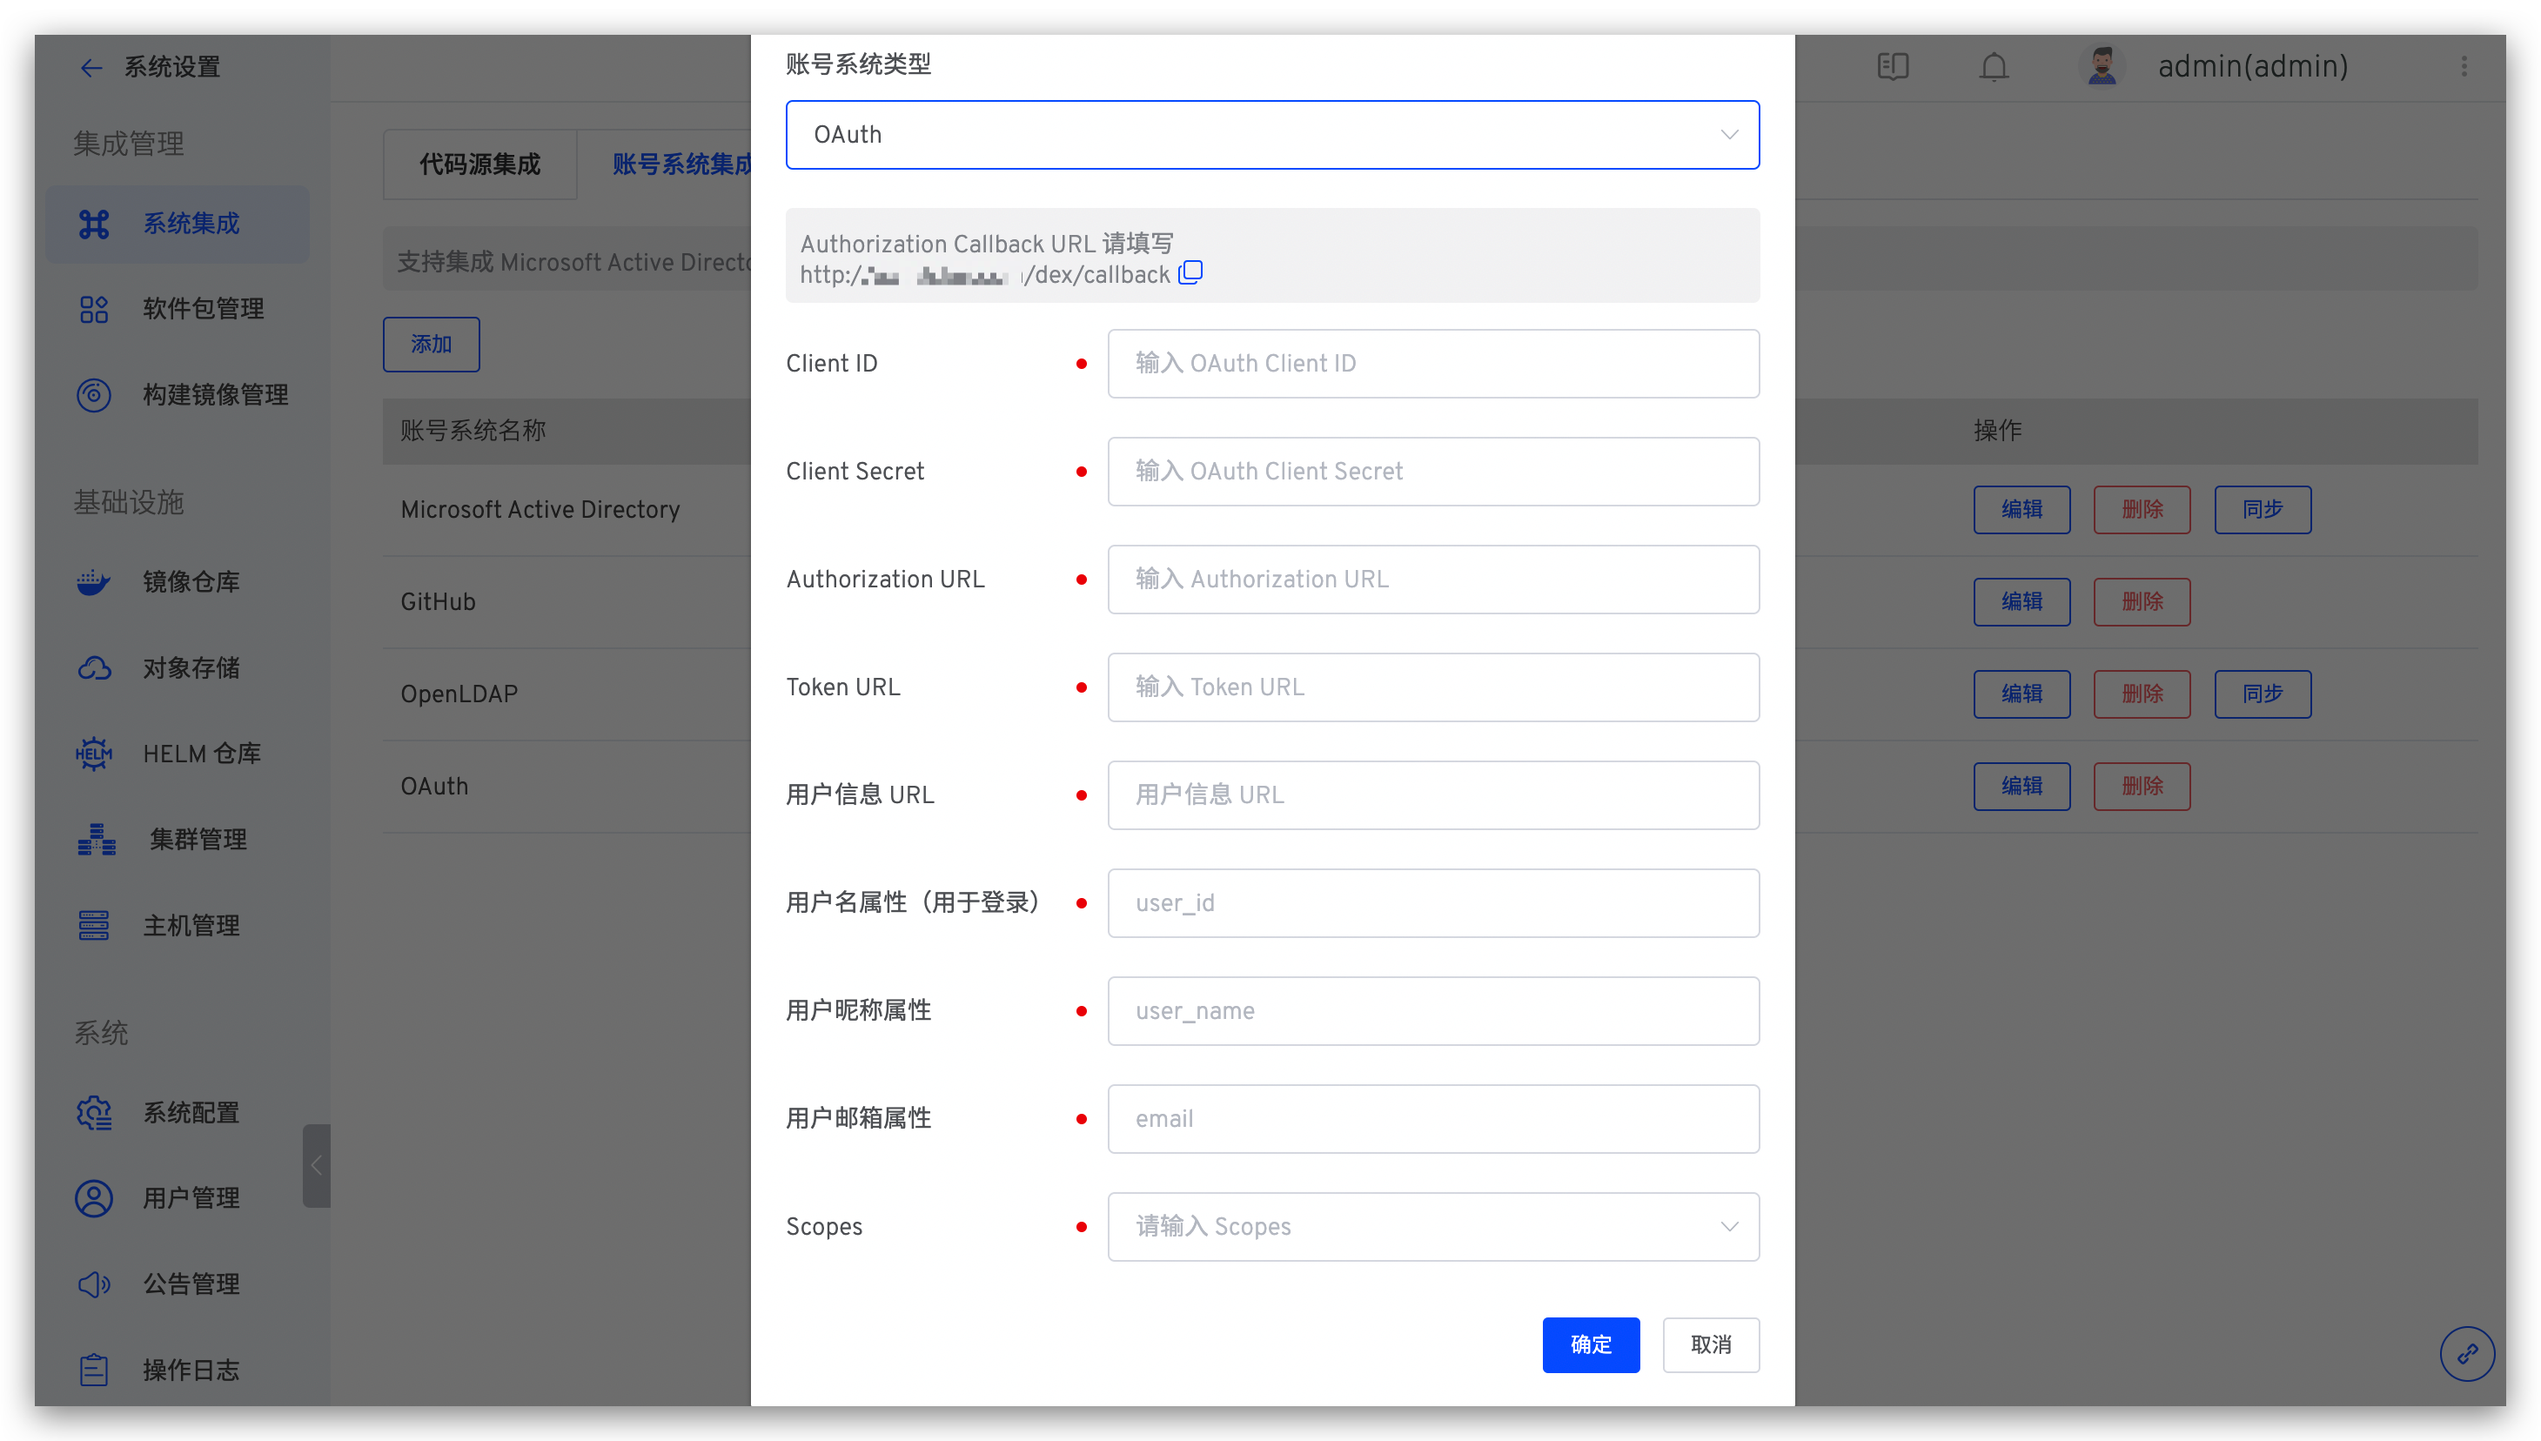
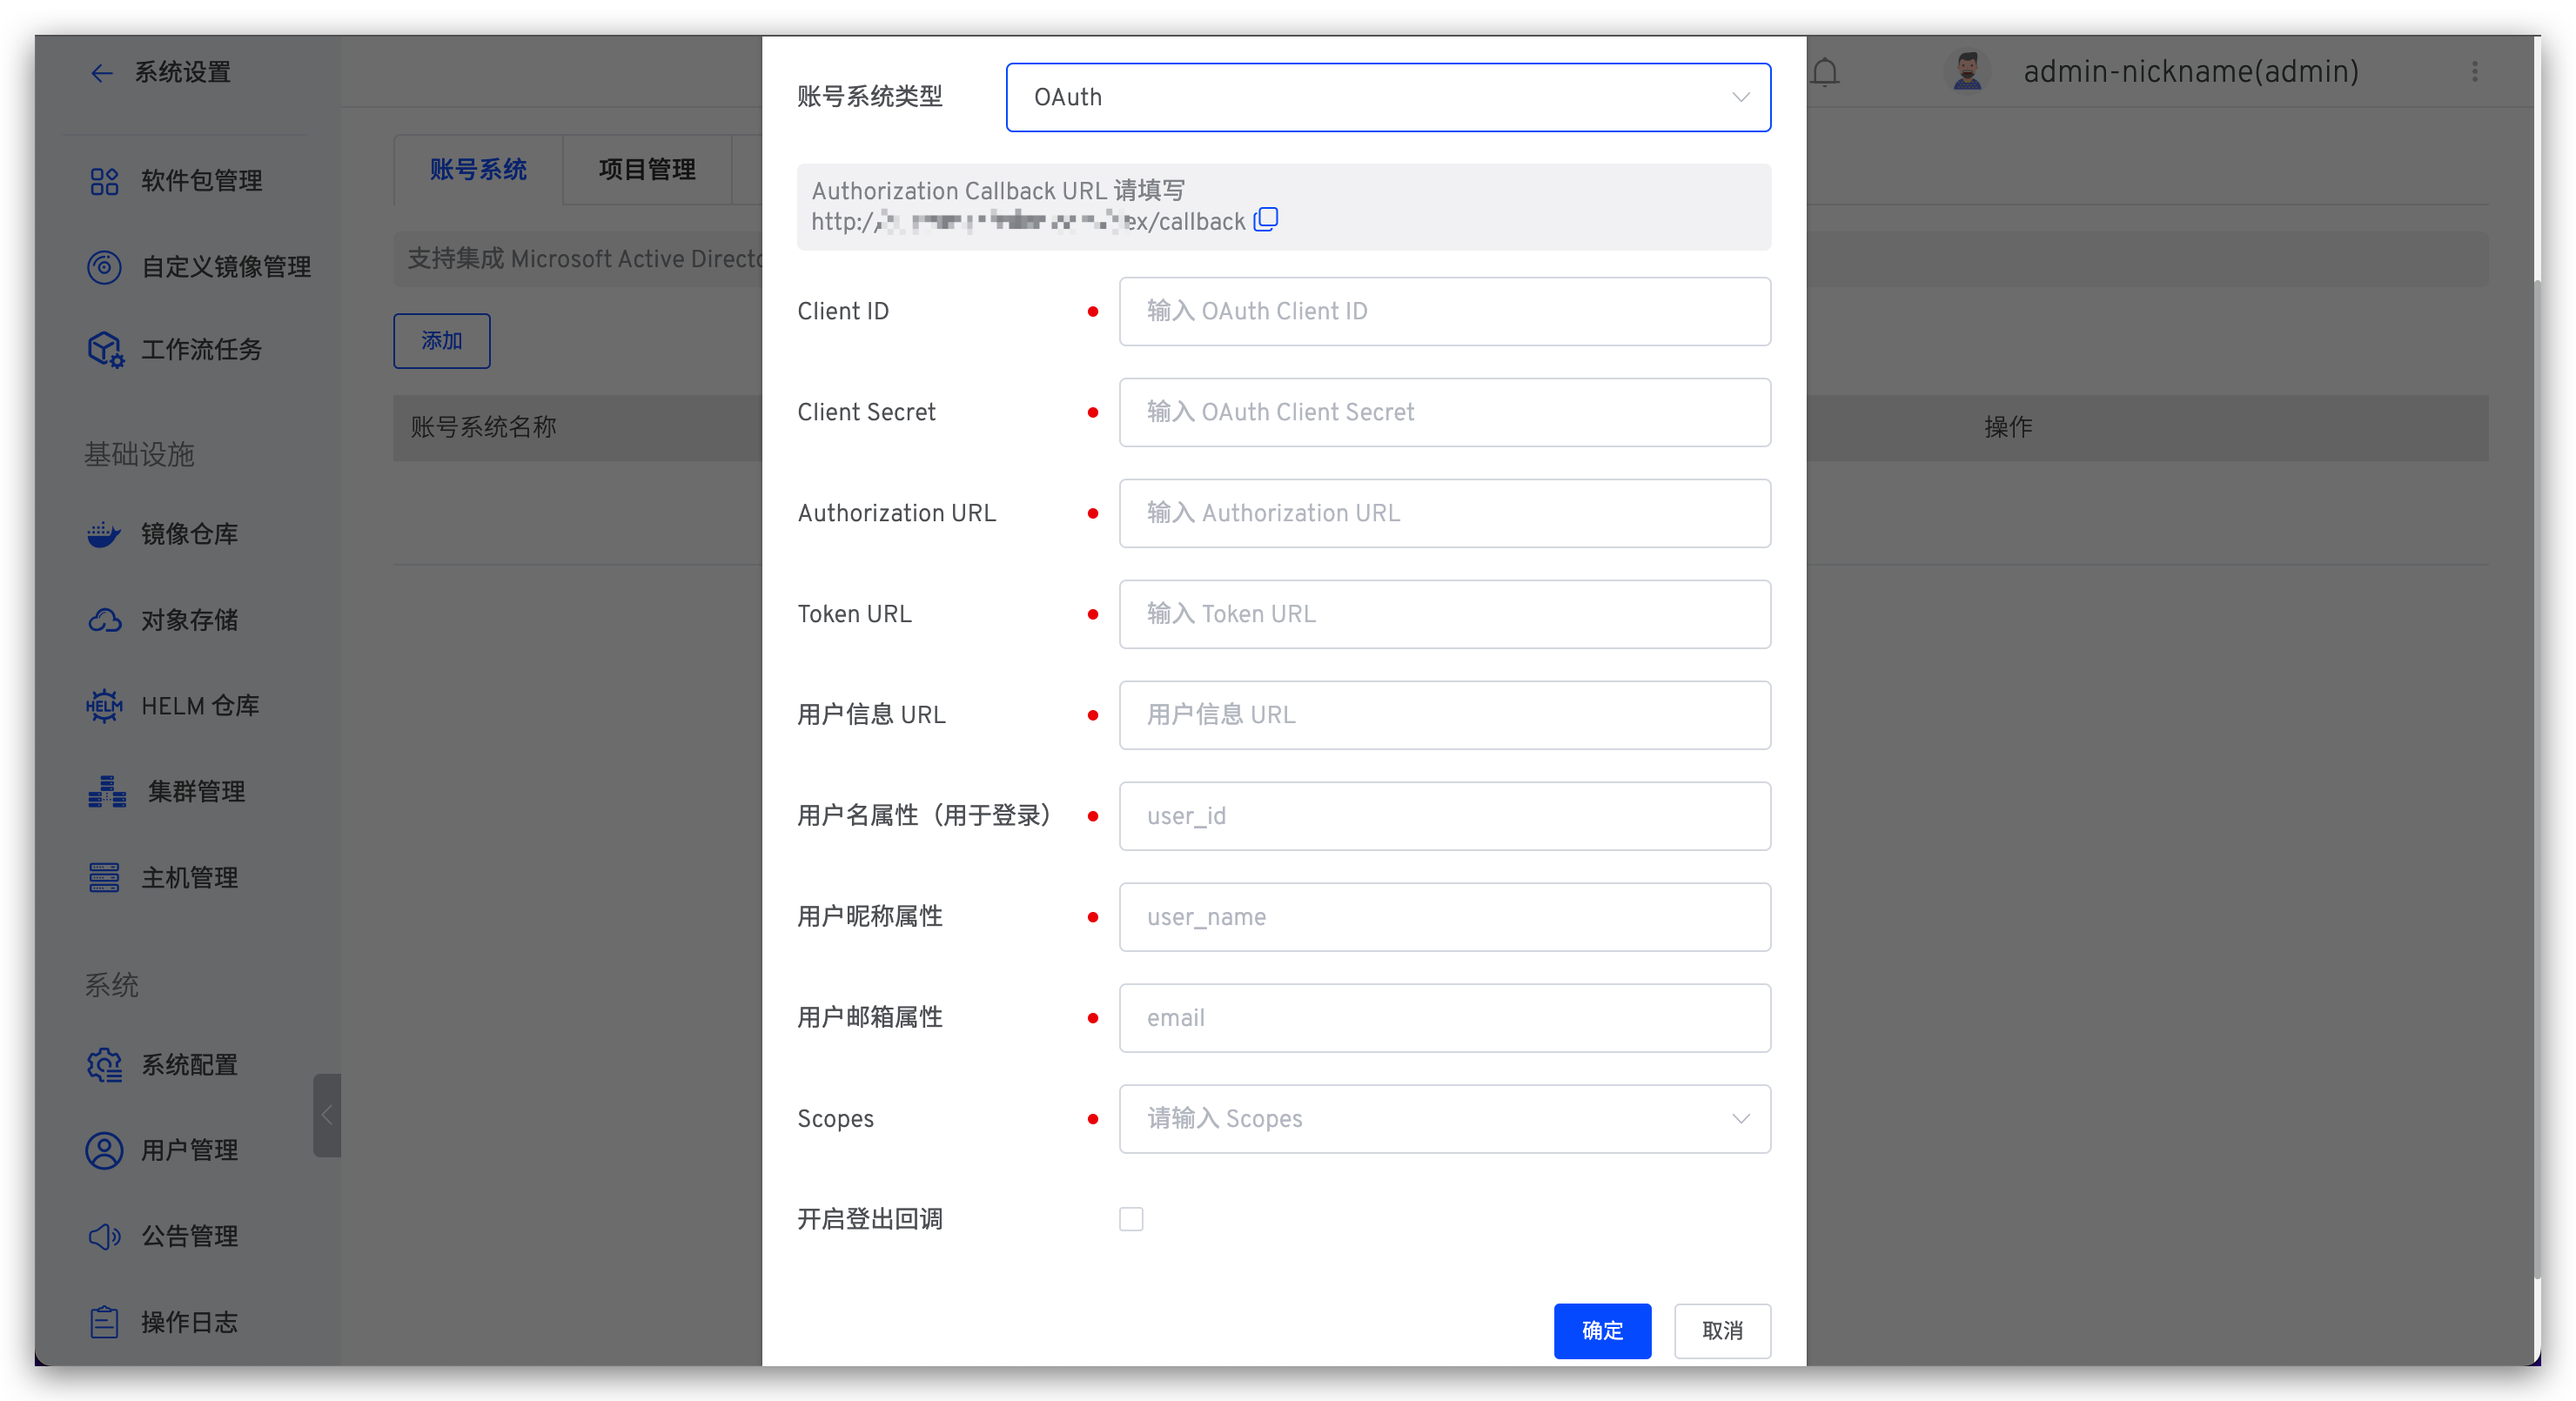
update oauth

diff --git a/ZadigX dev/05.功能介绍/18.系统设置/00.账号系统/01.oauth2.md b/ZadigX dev/05.功能介绍/18.系统设置/00.账号系统/01.oauth2.md
@@ -22,6 +22,8 @@ ZadigX 支持用户通过 OAuth 2.0 账号授权进行登录。 点击`系统设
 | 用户昵称属性             | 用户昵称属性，选填                                     |
 | 用户邮箱属性             | 用户邮箱属性                                          |
 | Scopes                 | 向账号系统请求的相关字段，可查阅账号系统相关文档            |
+| 开启登出回调             | 若开启，当账号在 ZadigX 中退出登录后，其他使用 OAuth 登录的站点也会登出 |
+| 登出回调地址             | 如果 `开启登出回调` 开关开启，配置需要登出的其他站点的地址|
 
 > 如果你的 OAuth provider 返回的用户信息不属于 root 层级，则需要通过 `.` 的方式嵌套配置。
 >
